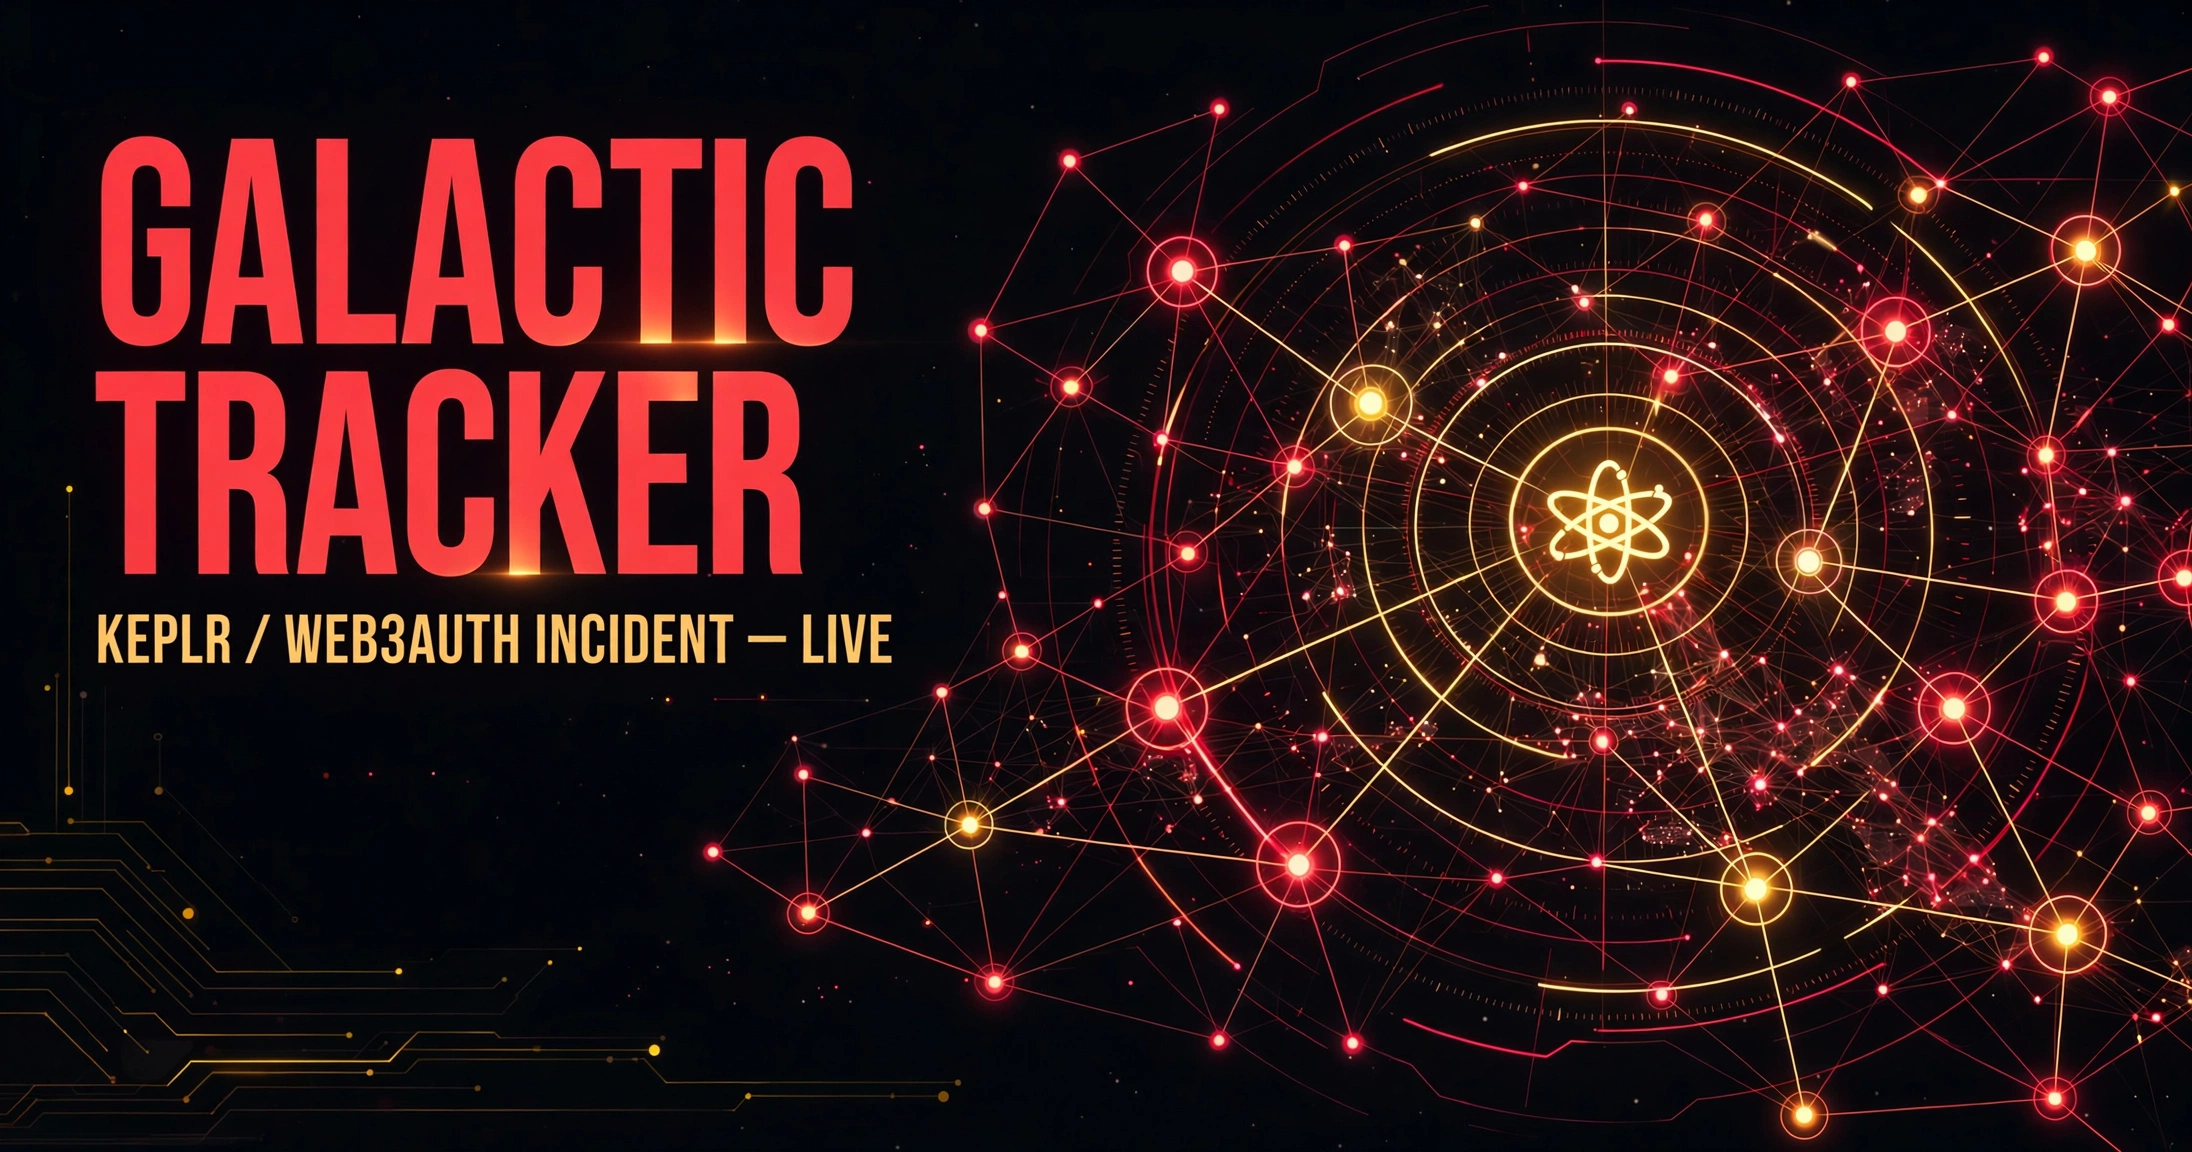
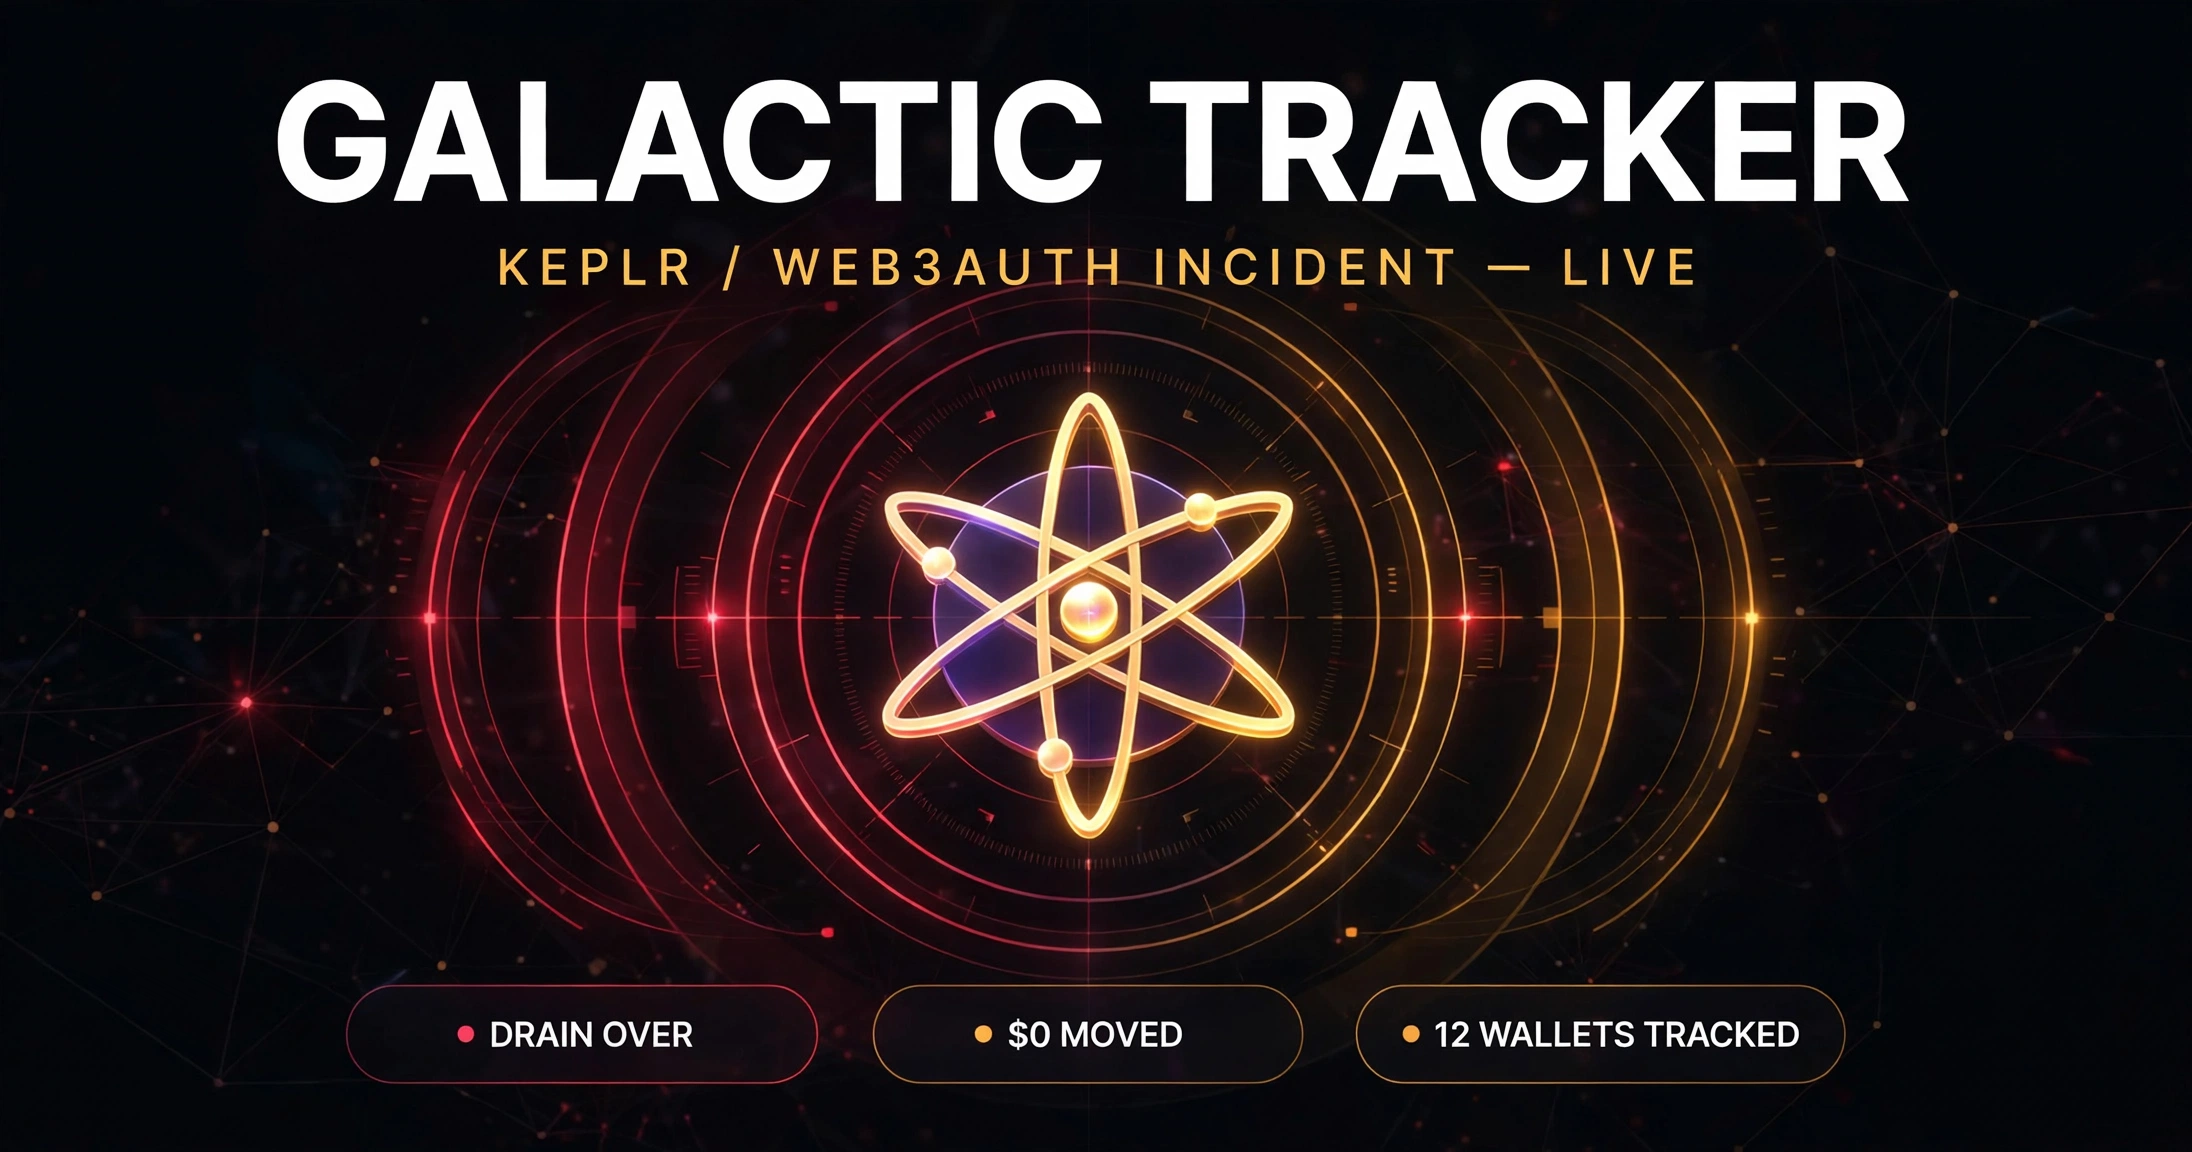
Update link preview: punchier title/description and new v3 og-image

diff --git a/index.html b/index.html
@@ -3,18 +3,18 @@
 <head>
 <meta charset="utf-8">
 <meta name="viewport" content="width=device-width, initial-scale=1">
-<title>Galactic Tracker — Keplr / Web3Auth Incident, Live</title>
+<title>Galactic Tracker — Keplr Hack: Drain Over, $0 Moved</title>
 <meta name="description" content="Galactic Tracker — live map of the Keplr / Web3Auth incident: who was hit, where the money is right now, and what happens next. Real on-chain data, updated live.">
 <meta property="og:type" content="website">
 <meta property="og:url" content="https://keplr-tracker.vercel.app/">
-<meta property="og:title" content="Galactic Tracker — Keplr / Web3Auth Incident, Live">
-<meta property="og:description" content="Live map of the Keplr / Web3Auth incident: who was hit, where the money is right now, and what happens next. Real on-chain data, updated live.">
+<meta property="og:title" content="Galactic Tracker — Keplr Hack: Drain Over, $0 Moved">
+<meta property="og:description" content="The Keplr / Web3Auth drain is over. $0 cashed out. Live map of all 12 wallets, over $4.5M tracked, and what to do if you were hit. Real on-chain data.">
 <meta property="og:image" content="https://keplr-tracker.vercel.app/og-image.png">
 <meta property="og:image:width" content="1200">
 <meta property="og:image:height" content="630">
 <meta name="twitter:card" content="summary_large_image">
-<meta name="twitter:title" content="Galactic Tracker — Keplr / Web3Auth Incident, Live">
-<meta name="twitter:description" content="Live map of the Keplr / Web3Auth incident: who was hit, where the money is right now, and what happens next. Real on-chain data, updated live.">
+<meta name="twitter:title" content="Galactic Tracker — Keplr Hack: Drain Over, $0 Moved">
+<meta name="twitter:description" content="The Keplr / Web3Auth drain is over. $0 cashed out. Live map of all 12 wallets, over $4.5M tracked, and what to do if you were hit. Real on-chain data.">
 <meta name="twitter:image" content="https://keplr-tracker.vercel.app/og-image.png">
 <style>
   * { box-sizing: border-box; margin: 0; padding: 0; }
